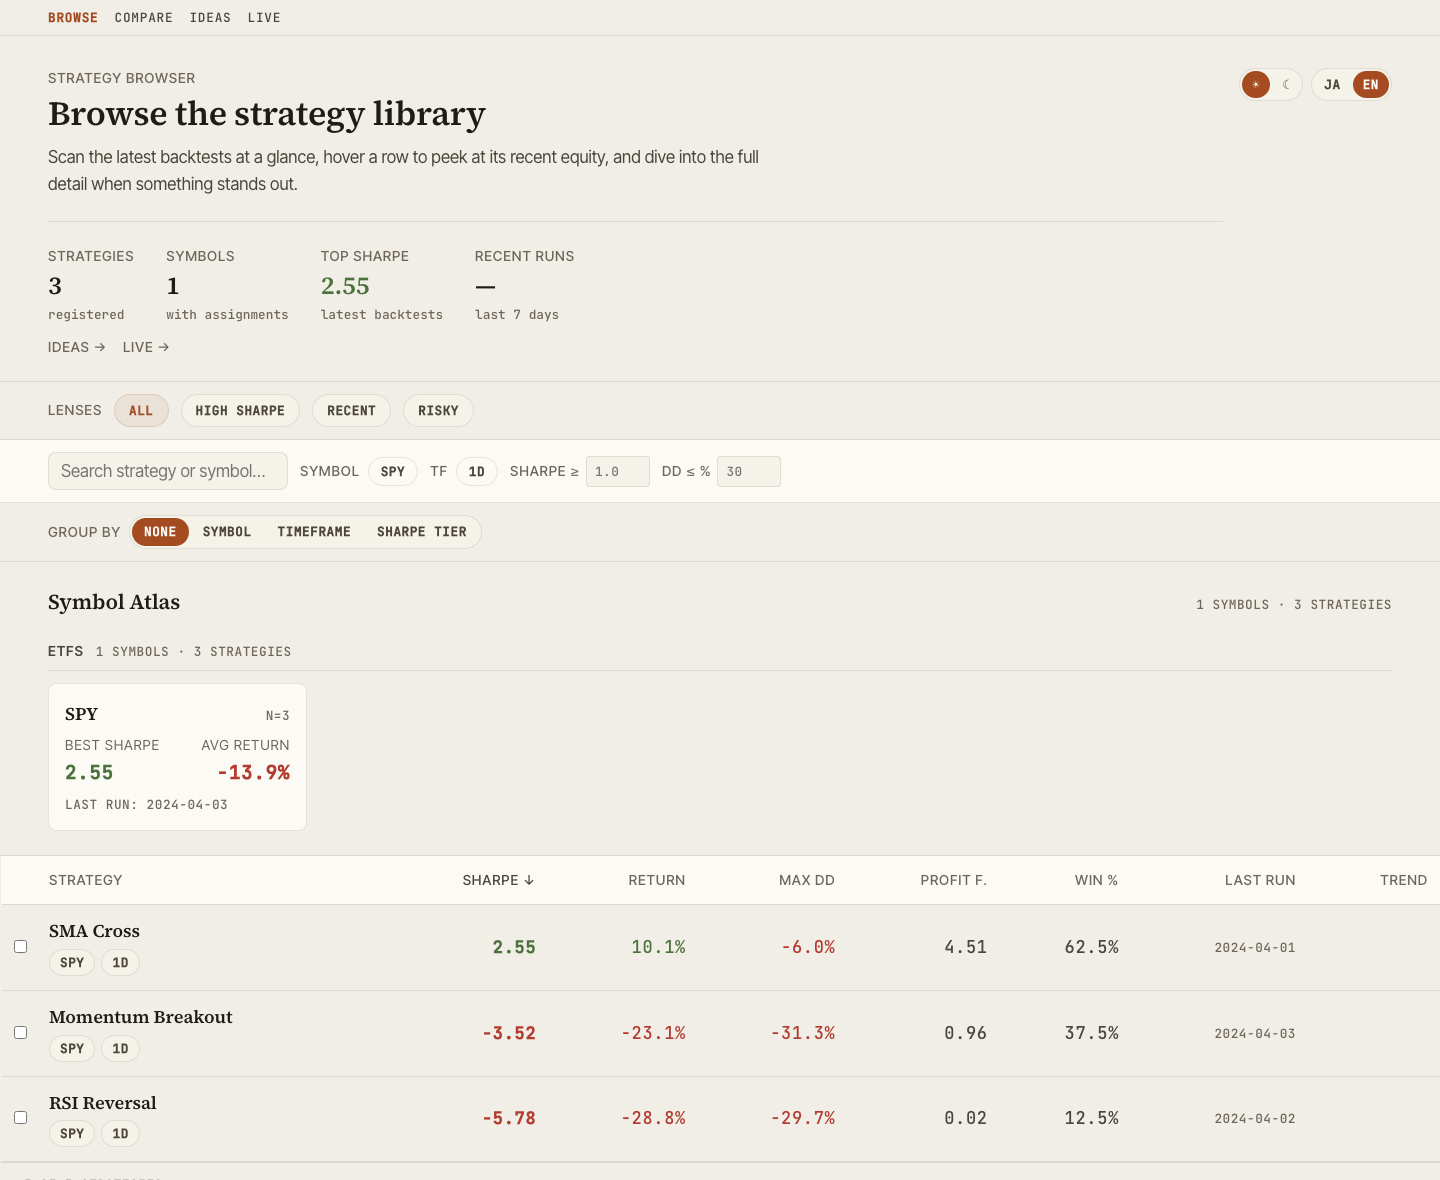
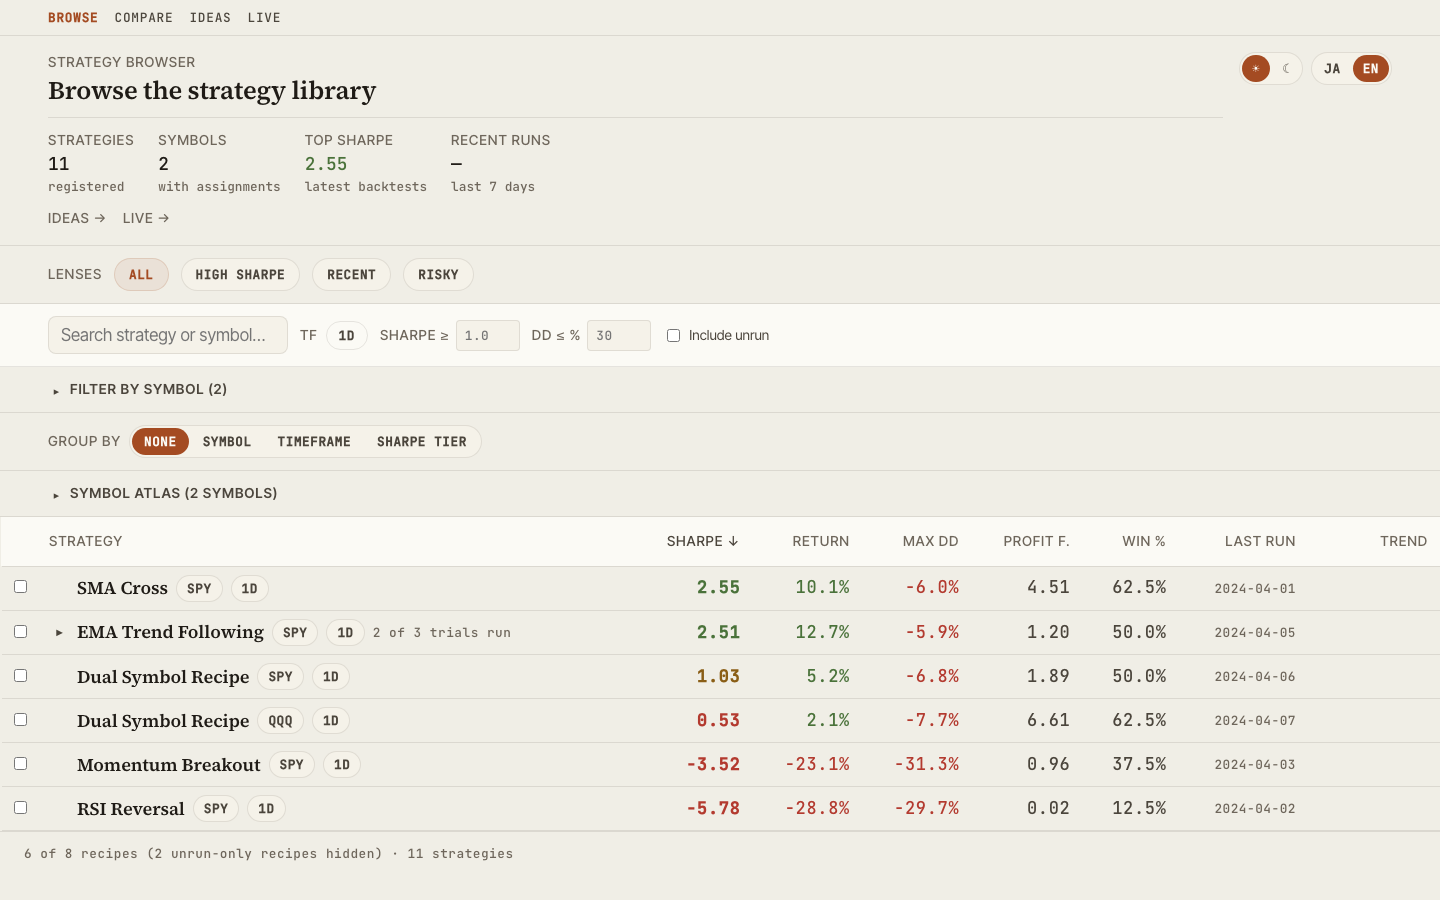
docs: ブラウズ画面のスクリーンショットを再撮影
レシピ・ロールアップとクローム圧縮を反映。銘柄アトラスが畳まれた分だけ
撮影の縦幅を1180から900へ詰めた（フィクスチャ実測でフッタ下端が約875px）。

diff --git a/frontend/e2e/screenshots/capture.spec.ts b/frontend/e2e/screenshots/capture.spec.ts
@@ -145,11 +145,13 @@ test.describe.serial('README / docs 用スクリーンショット撮影', () =>
         await clearViewerSettings(page)
       })
 
-      // hero: ヘッダー＋銘柄アトラスが収まる縦長 viewport
+      // hero: ヘッダー＋表＋フッタが収まる縦長 viewport
+      // （レシピ・ロールアップで銘柄アトラスが既定で畳まれたため、旧 1180 は
+      // 余白が大きすぎた。実測 footer 下端 ≈875px に合わせて 900 に詰めた）
       test('browse', async ({ page }) => {
         await gotoBrowse(page)
         await setLang(page, lang)
-        await captureViewport(page, lang, 'browse', 1180)
+        await captureViewport(page, lang, 'browse', 900)
       })
 
       // detail: 「エクイティ & ドローダウン」カード（タイトル＋チャート）をクロップ
